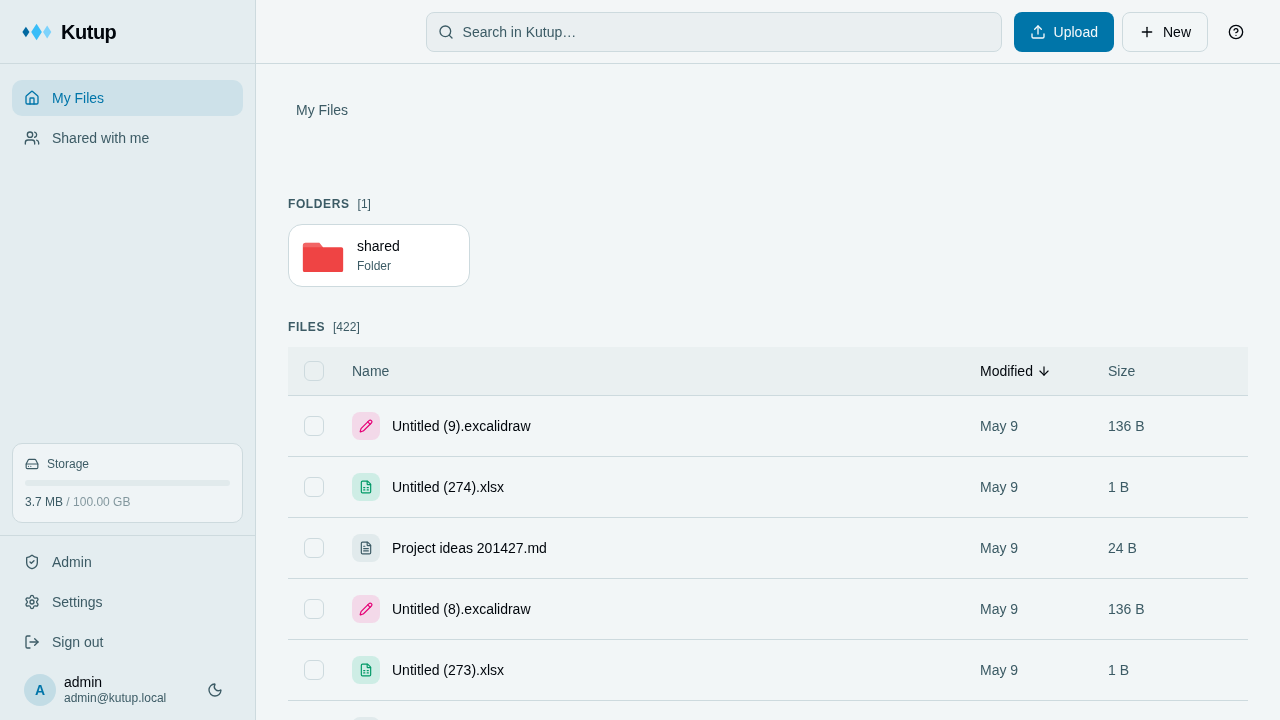
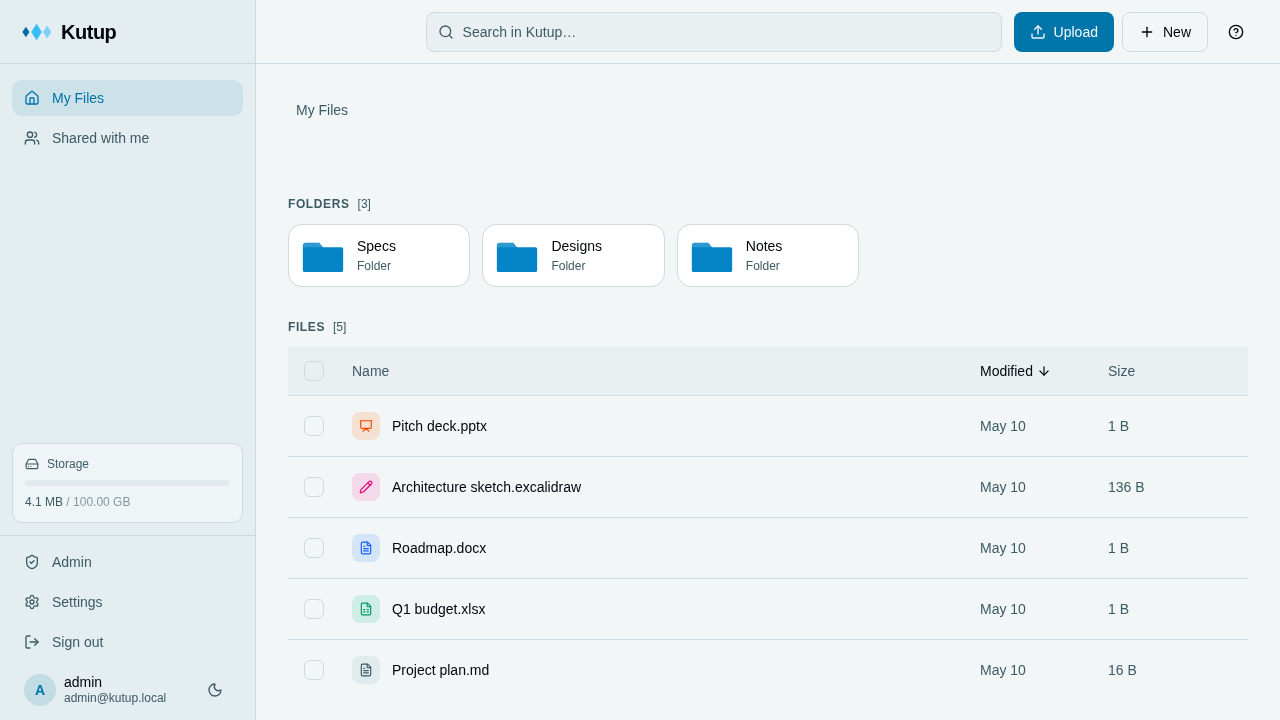
docs: curated Drive hero shot + CLI workflows + .excalidraw rename fix
Three changes that flow together.

1. Curated 01-drive.png. The previous shot showed accumulated test
   debris ("Untitled (8).excalidraw" mixed with random screenshot-spec
   leftovers). New tests/e2e/specs/drive-screenshot.spec.ts is
   idempotent — nukes existing collections + files via the API, then
   creates a curated set:
     Folders: Specs · Designs · Notes
     Files:   Pitch deck.pptx · Architecture sketch.excalidraw
              · Roadmap.docx · Q1 budget.xlsx · Project plan.md
   Re-running reaches the same state. screenshots.spec.ts (which
   produces 02-06 — editor + settings shots) is left untouched so
   editor screenshots stay reproducible from there.

2. README "Common workflows" CLI section. The CLI section landed in
   f9b751f only covered install. Added concrete examples for login /
   ls / upload / download / sync / versions / pub. The standout is the
   >2 GB callout: browsers wedge ~2 GB on Web Crypto streaming uploads,
   the CLI streams arbitrarily large files at constant ~5 MB memory
   via golang.org/x/crypto/chacha20poly1305 over io.Reader. Real
   differentiator users should know about.

3. Bug fix: .excalidraw renamed via the UI silently lost its extension
   ("Architecture sketch.excalidraw" → "Architecture sketch") because
   `excalidraw` was missing from KNOWN_EXTS in
   frontend/src/lib/filename.ts. The rename dialog's lockedExt logic
   only fires for known extensions; without it, Ctrl+A + type replaced
[…]

diff --git a/tests/e2e/specs/drive-screenshot.spec.ts b/tests/e2e/specs/drive-screenshot.spec.ts
@@ -1,0 +1,202 @@
+import { test } from '@playwright/test'
+import { signInOrBootstrap } from '../fixtures/auth'
+import { mkdirSync } from 'fs'
+import { dirname, join } from 'path'
+import { fileURLToPath } from 'url'
+
+const __dirname = dirname(fileURLToPath(import.meta.url))
+
+// Curated Drive screenshot for the README hero. NOT a regression test —
+// re-running this overwrites docs/screenshots/01-drive.png so it stays
+// current with the live UI.
+//
+// Distinct from screenshots.spec.ts (which produces 02-06 — editor +
+// settings shots). Splitting responsibilities means:
+//   - This spec nukes Drive contents first, then creates a curated set.
+//     Re-runs are idempotent.
+//   - screenshots.spec.ts creates editor-content files which need to
+//     persist through the rest of its sequence; nuking would invalidate.
+//
+// Sized to 1280x720 (Playwright's default desktop viewport), light theme,
+// fullPage: false so the height matches 02-06 when stacked in README.
+
+const SCREENSHOTS_DIR = join(__dirname, '..', '..', '..', 'docs', 'screenshots')
+
+// Folder names kept short so the Drive UI's fixed-width folder cards
+// don't truncate them ("Meeting notes" became "Meetin..." in v1).
+const FOLDER_NAMES = ['Specs', 'Designs', 'Notes']
+
+// Ordered oldest-to-newest so the LAST one created shows at the top
+// under Modified DESC. Note creation prompts for a name (we type
+// directly); office + whiteboard files auto-suffix "Untitled.<ext>"
+// (Drive.tsx:551-558) and we rename them via the UI rename dialog
+// after creation.
+const FILE_NAMES = [
+  { menuItem: 'Note',          autoExt: 'md',         name: 'Project plan.md' },
+  { menuItem: 'Spreadsheet',   autoExt: 'xlsx',       name: 'Q1 budget.xlsx' },
+  { menuItem: 'Document',      autoExt: 'docx',       name: 'Roadmap.docx' },
+  { menuItem: 'Whiteboard',    autoExt: 'excalidraw', name: 'Architecture sketch.excalidraw' },
+  { menuItem: 'Presentation',  autoExt: 'pptx',       name: 'Pitch deck.pptx' },
+] as const
+
+test.describe('README curated drive screenshot', () => {
+  test.setTimeout(300_000)
+
+  test('nuke + curated set + 01-drive.png', async ({ context }) => {
+    mkdirSync(SCREENSHOTS_DIR, { recursive: true })
+
+    const drive = await signInOrBootstrap(context)
+
+    async function forceLight(p: typeof drive) {
+      await p.evaluate(() => {
+        localStorage.setItem('kutup-theme', 'light')
+        document.documentElement.classList.remove('dark')
+        document.documentElement.classList.add('light')
+      })
+    }
+    await forceLight(drive)
+    await drive.reload()
+    await drive.waitForLoadState('domcontentloaded')
+    await drive.waitForTimeout(2_000)
+
+    // ---- Nuke pass ----
+    // Auth via the refresh-token cookie pattern (mirrors
+    // 24-whiteboard-image-quota.spec.ts:22-39). The refresh cookie is
+    // httpOnly + auto-attached; we use it to mint a bearer token for
+    // the listing + DELETE calls.
+    await drive.evaluate(async () => {
+      const refreshRes = await fetch('/api/auth/refresh', {
+        method: 'POST', credentials: 'include',
+      })
+      if (!refreshRes.ok) throw new Error('refresh failed: ' + refreshRes.status)
+      const { accessToken } = await refreshRes.json()
+      const auth = { Authorization: 'Bearer ' + accessToken }
+
+      // 1. Delete every top-level collection. ON DELETE CASCADE on
+      //    files.collection_id wipes their files. Some may 403/404 if
+      //    they're not deletable (e.g. an auto-created root); ignore
+      //    those — step 2 catches their files.
+      const cols = await fetch('/api/collections/', { headers: auth })
+        .then((r) => r.json()) as Array<{ id: string; parentCollectionId?: string | null }>
+      for (const c of cols) {
+        if (c.parentCollectionId == null) {
+          await fetch('/api/collections/' + c.id, { method: 'DELETE', headers: auth })
+        }
+      }
+
+      // 2. Re-list collections + delete files in any survivors.
+      //    (Defensive: if the auto-created root resisted deletion in
+      //    step 1, we still need to empty its files.)
+      const survivors = await fetch('/api/collections/', { headers: auth })
+        .then((r) => r.json()) as Array<{ id: string }>
+      for (const c of survivors) {
+        const files = await fetch('/api/collections/' + c.id + '/files', { headers: auth })
+          .then((r) => r.json()) as Array<{ id: string }>
+        for (const f of files) {
+          await fetch('/api/files/' + f.id, { method: 'DELETE', headers: auth })
+        }
+      }
+    })
+
+    // Reload to a clean state. The app may have re-created an empty
+    // "My Files" root or just shown an empty list.
+    await drive.reload()
+    await drive.waitForLoadState('domcontentloaded')
+    await drive.waitForTimeout(2_000)
+
+    // ---- Curate: 3 folders ----
+    // Created first so under Modified DESC they sort to the bottom of
+    // the list, leaving the more-recently-created files at the top.
+    for (const folder of FOLDER_NAMES) {
+      await drive.locator('button:has-text("New")').first().click()
+      await drive.waitForTimeout(400)
+      await drive.locator('[role=menuitem]:has-text("Folder")').first().click()
+      await drive.waitForTimeout(600)
+      await drive.locator('input[name="name"]').click()
+      await drive.keyboard.press('Control+a')
+      await drive.keyboard.type(folder)
+      await drive.locator('button:has-text("Create")').last().click()
+      await drive.waitForTimeout(800)
+    }
+
+    // ---- Curate: 5 files ----
+    // Each "New" → file-type click opens an editor in a new tab. We
+    // close each one immediately — we don't need editor content in this
+    // shot (screenshots.spec.ts handles editor screenshots).
+    for (const f of FILE_NAMES) {
+      const tabPromise = context.waitForEvent('page', { timeout: 60_000 })
+      await drive.bringToFront()
+      await drive.locator('button:has-text("New")').first().click()
+      await drive.waitForTimeout(400)
+      // Note menu items are labeled like "Note (.md)" / "Spreadsheet
+      // (.xlsx)" / etc — the unique prefix is enough.
+      await drive.locator(`[role=menuitem]:has-text("${f.menuItem}")`).first().click()
+      await drive.waitForTimeout(500)
+      // Some types prompt for a name; others (xlsx/docx/pptx/whiteboard)
+      // auto-suffix and skip the name dialog. Try-and-skip the input.
+      const nameInput = drive.locator('input[name="name"]')
+      const inputVisible = await nameInput.isVisible().catch(() => false)
+      if (inputVisible) {
+        await nameInput.click()
+        await drive.keyboard.press('Control+a')
+        await drive.keyboard.type(f.name)
+        await drive.locator('button:has-text("Create")').last().click()
+      }
+      // Wait for the editor tab; close it without saving.
+      const tab = await tabPromise
+      await tab.waitForLoadState('domcontentloaded')
+      // Brief settle; some editors trigger an autosave on first idle.
+      await tab.waitForTimeout(800)
+      await tab.close()
+      await drive.waitForTimeout(400)
+    }
+
+    // ---- Rename auto-named files via the UI rename dialog ----
+    // Office + whiteboard creation skips the name dialog (Drive.tsx:551-
+    // 558) and auto-suffixes "Untitled.<ext>". Use the right-click
+    // context menu → Rename → type new basename to give them curated
+    // names. The rename dialog uses a "lockedExt" pattern: the input
+    // takes only the basename (no .ext); the .ext is appended outside
+    // the input. So we type "Q1 budget", not "Q1 budget.xlsx".
+    await drive.bringToFront()
+    await drive.reload()
+    await drive.waitForLoadState('domcontentloaded')
+    await drive.waitForTimeout(2_000)
+
+    for (const f of FILE_NAMES) {
+      if (f.menuItem === 'Note') continue // already correctly named
+      const oldName = `Untitled.${f.autoExt}`
+      const newBase = f.name.replace(`.${f.autoExt}`, '')
+
+      // Right-click the row containing the auto-named file. The
+      // FileTable wraps each row in a ContextMenuTrigger; the row's
+      // first text content is the filename.
+      const row = drive.locator(`tr:has-text("${oldName}")`).first()
+      await row.click({ button: 'right' })
+      await drive.waitForTimeout(400)
+      await drive.locator('[role=menuitem]:has-text("Rename")').first().click()
+      await drive.waitForTimeout(500)
+      // The rename dialog's input takes the basename only. Select-all
+      // and type the new value.
+      await drive.locator('input[name="name"]').click()
+      await drive.keyboard.press('Control+a')
+      await drive.keyboard.type(newBase)
+      await drive.locator('button:has-text("Rename")').last().click()
+      await drive.waitForTimeout(800)
+    }
+
+    // ---- Screenshot ----
+    await drive.bringToFront()
+    await drive.reload()
+    await drive.waitForLoadState('domcontentloaded')
+    await drive.waitForTimeout(3_000)
+    // Sort by Modified DESC. FileTable.toggleSort defaults Modified to
+    // 'desc' on the FIRST click — so a single click is enough.
+    await drive.locator('button:has-text("Modified")').first().click()
+    await drive.waitForTimeout(800)
+    await drive.screenshot({
+      path: join(SCREENSHOTS_DIR, '01-drive.png'),
+      fullPage: false,
+    })
+  })
+})

diff --git a/frontend/src/lib/filename.ts b/frontend/src/lib/filename.ts
@@ -13,6 +13,8 @@
 const KNOWN_EXTS = new Set([
   // office
   'docx', 'xlsx', 'pptx',
+  // whiteboard
+  'excalidraw',
   // text / code (matches dispatch.tsx TEXT_EXT)
   'md', 'markdown', 'txt',
   'go', 'js', 'mjs', 'cjs', 'jsx', 'ts', 'tsx',

diff --git a/README.md b/README.md
@@ -103,12 +103,50 @@ go build -o ~/.local/bin/kutup .
 
 Tagged release binaries (Linux / macOS / Windows; amd64 + arm64) are published via [goreleaser](cmd/kutup/.goreleaser.yaml) on GitHub Releases.
 
+### Common workflows
+
 ```sh
+# Login (interactive password + recovery phrase prompt for first device).
 kutup login --server https://your.kutup.host
-kutup whoami
-kutup version
+
+# List your folders + files at the Drive root.
+kutup ls
+kutup ls <folder-id>           # contents of a sub-folder
+
+# Upload a file. The CLI's chunked stream encryption (5 MB blocks via
+# crypto_secretstream) has NO browser-imposed size limit — multi-GB
+# files (ISOs, raw video, datasets) work where the web upload chokes
+# around ~2 GB and crashes the tab. File size is bounded by disk,
+# not RAM.
+kutup upload ./big-dataset.tar.gz <folder-id>
+kutup upload ./local-dir <folder-id> --recursive
+
+# Download a file. For collab-edited files (notes / office /
+# whiteboards) returns the latest snapshot — same content the web
+# shows, not the cold-start initial.
+kutup download <file-id>
+kutup download <file-id> ./local/path/
+
+# Bidirectional sync. --watch keeps the local folder live-synced via
+# fsnotify; new local files upload immediately, new remote files
+# arrive within seconds.
+kutup sync ./local-folder <folder-id>
+kutup sync ./local-folder <folder-id> --watch
+
+# Snapshot versions of any file (notes, office, whiteboard).
+kutup versions list <file-id>
+kutup versions restore <file-id> <version-id>
+
+# Public-link consumption — no kutup login required for the URL itself.
+kutup pub get https://your.kutup.host/p/<token>#key=<base64>
+kutup pub download <url> <file-id>
+
+# Discover the rest.
 kutup --help
+kutup version
 ```
+
+The **>2 GB** path is the standout. Browser File API + Web Crypto streaming work in theory but practically wedge the tab at multi-GB sizes; the CLI uses `golang.org/x/crypto/chacha20poly1305` over Go's `io.Reader`, so it streams arbitrarily large files at constant ~5 MB memory.
 
 ---
 